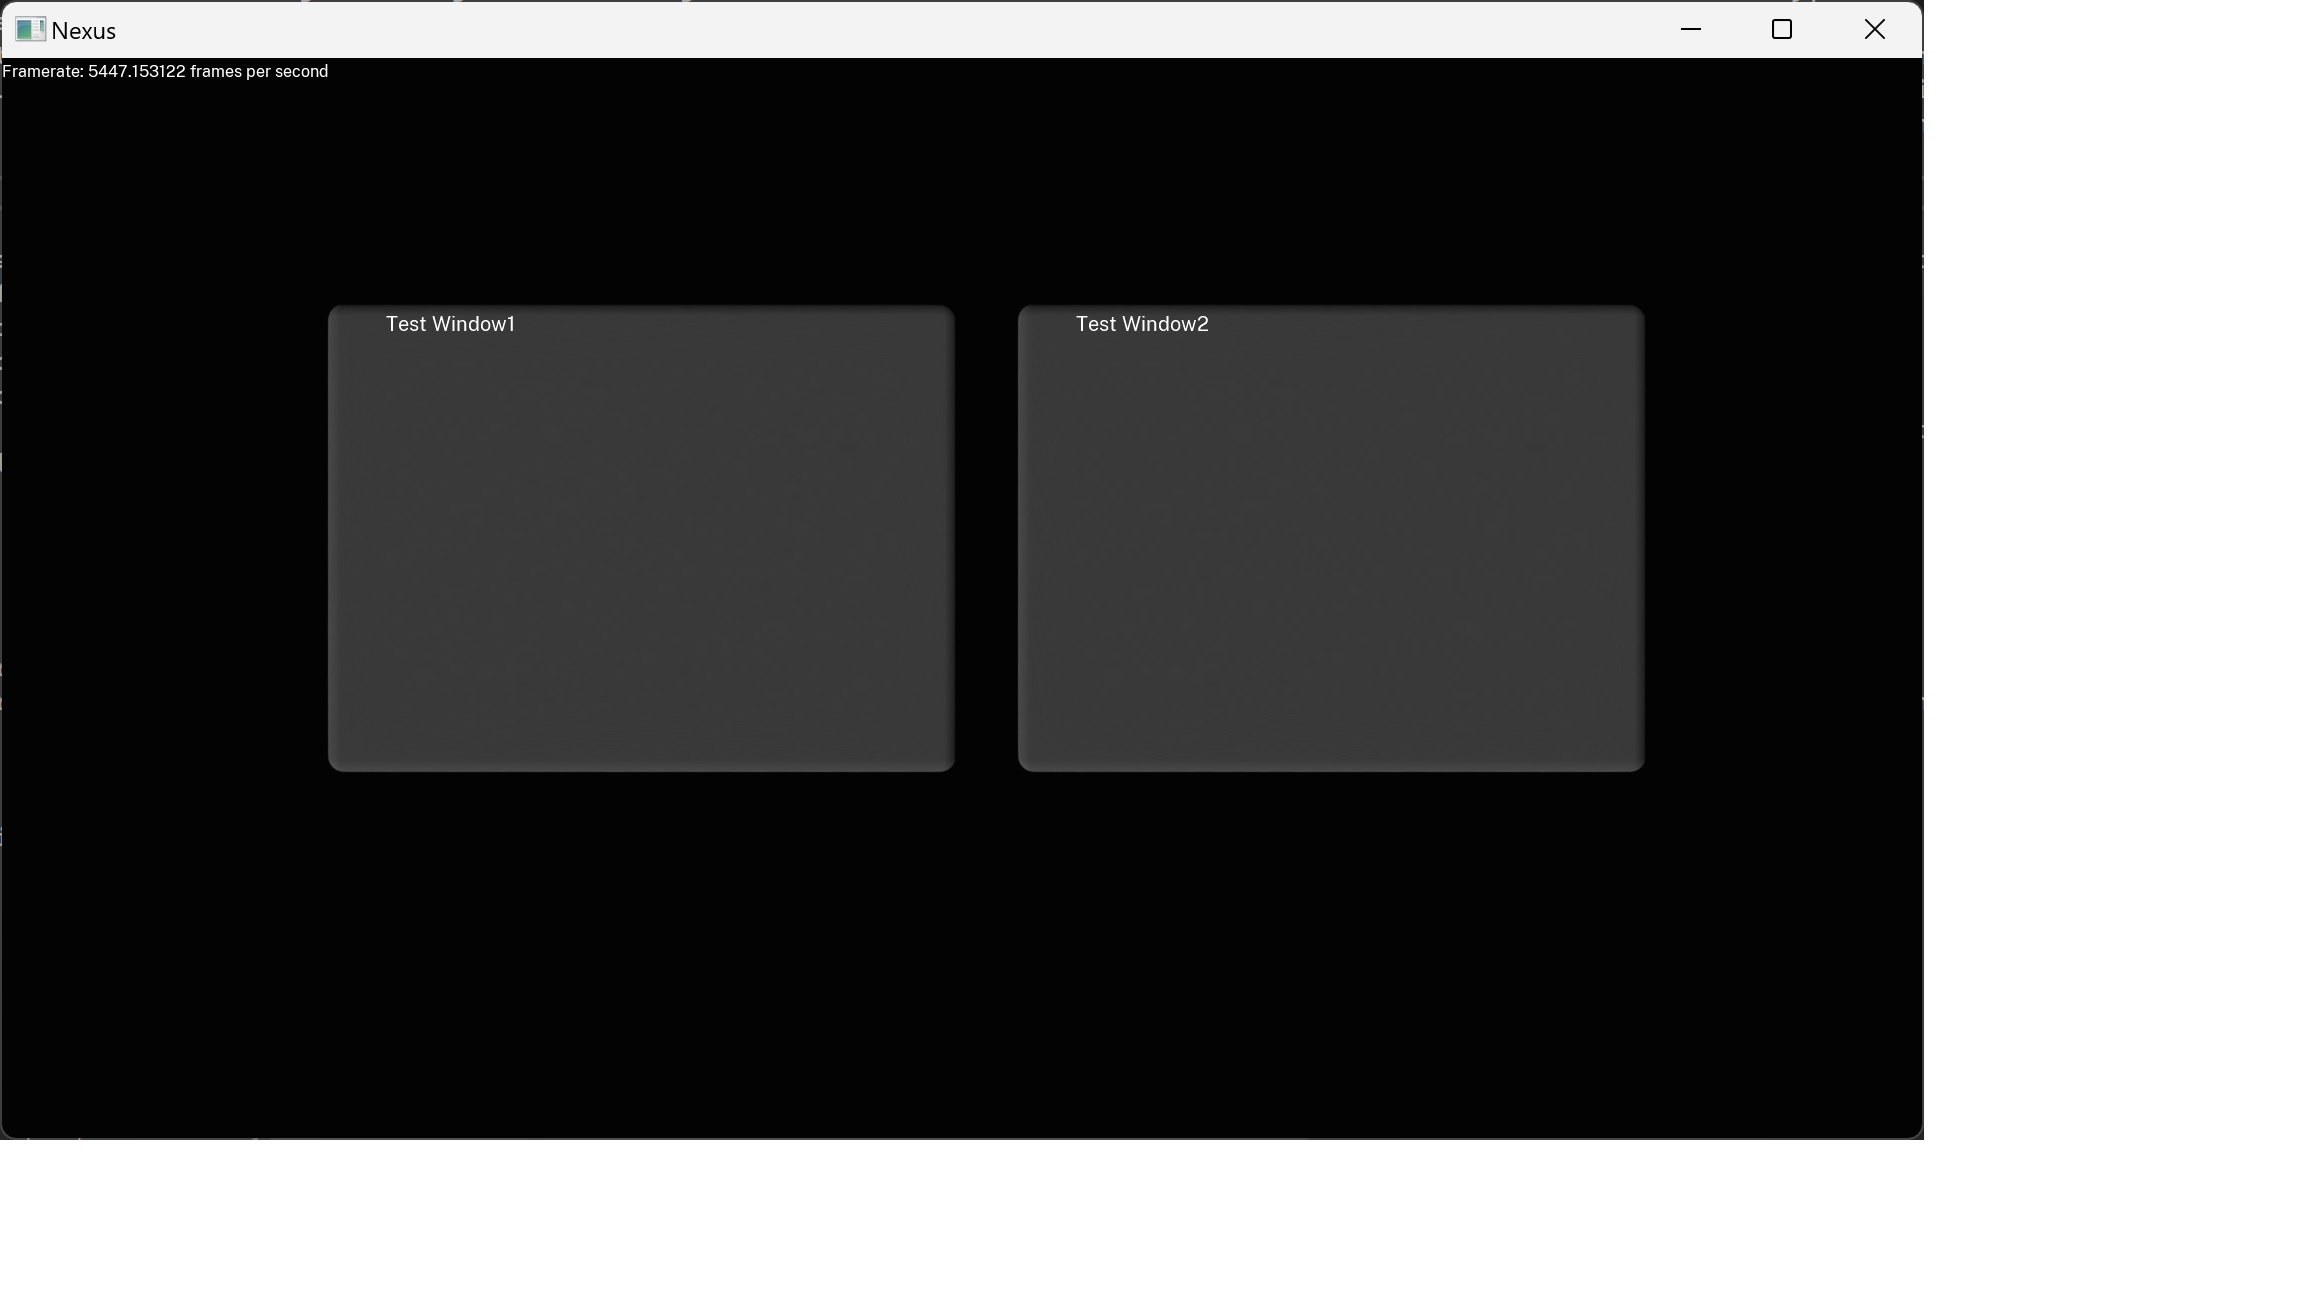
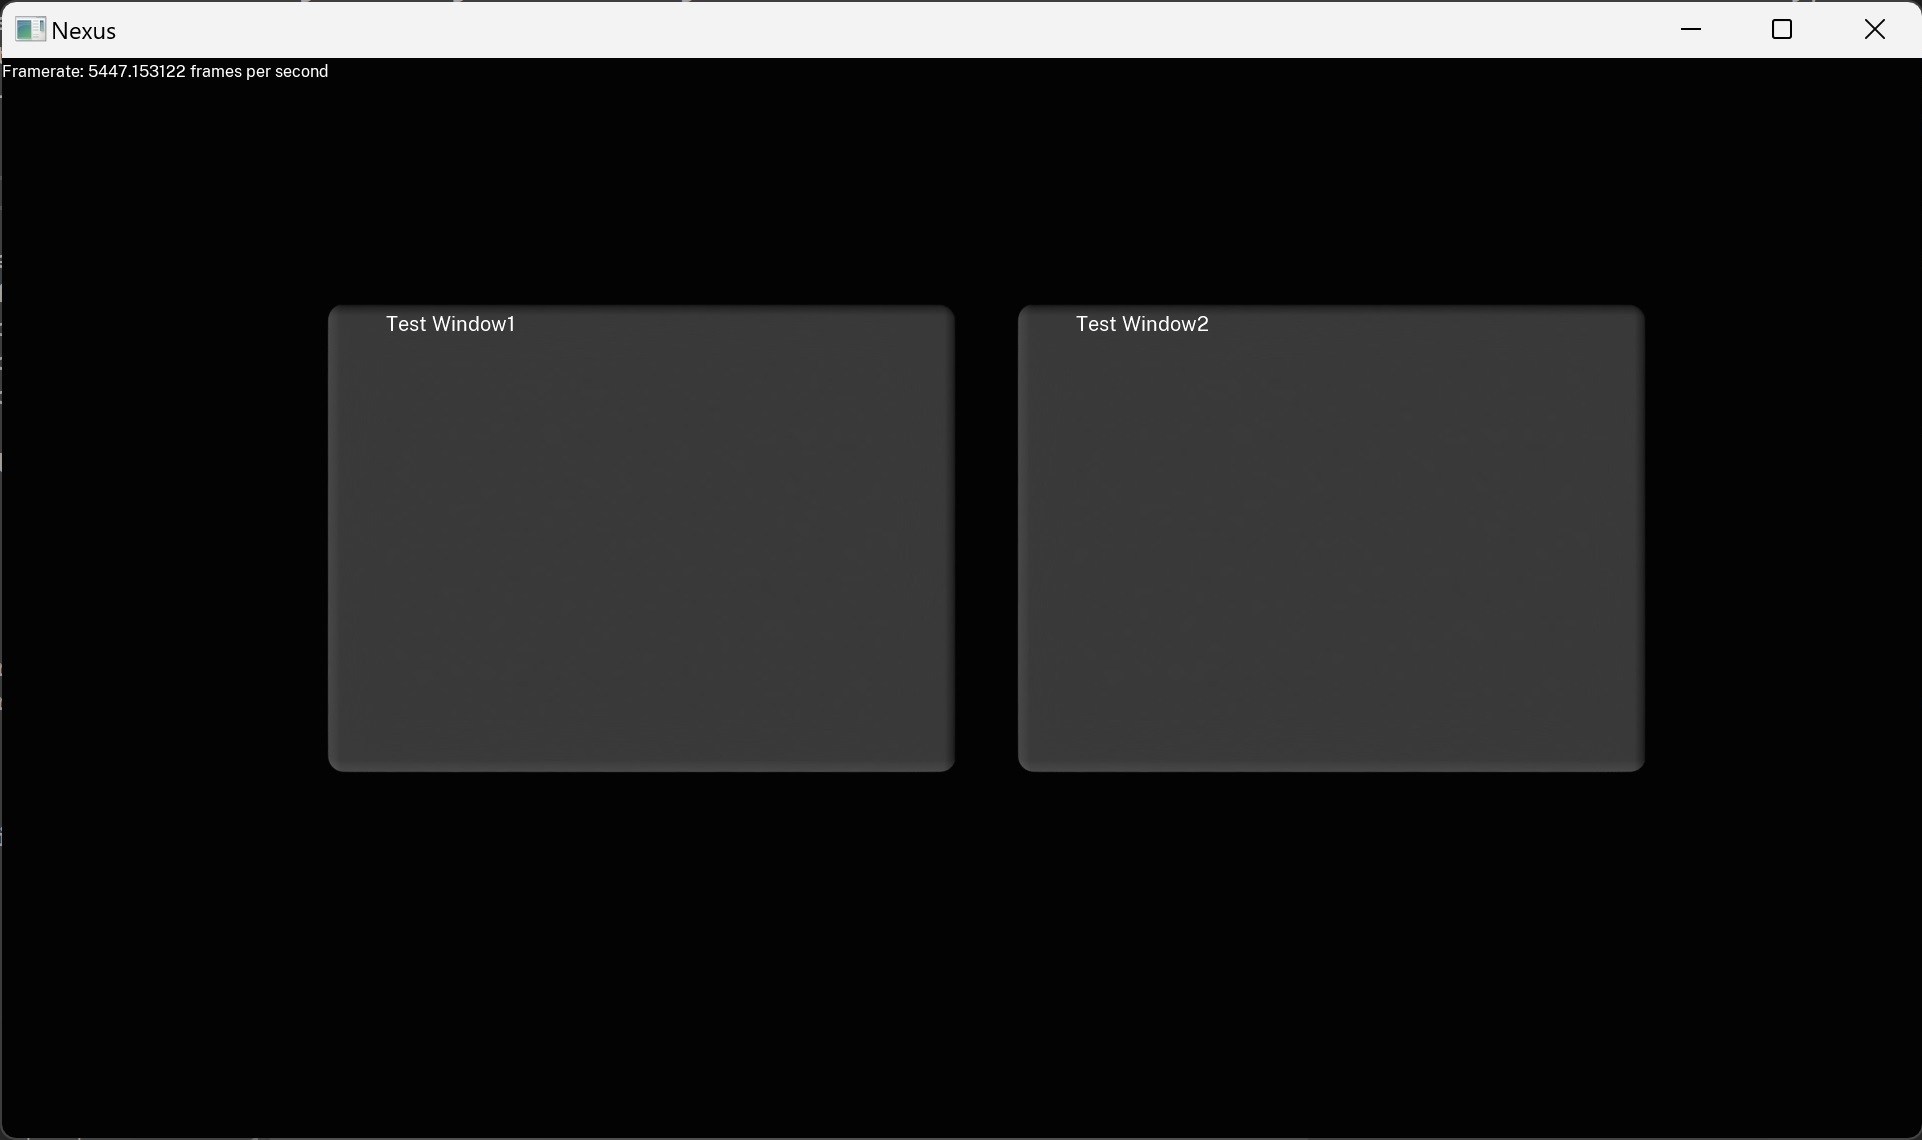
na

diff --git a/README.md b/README.md
@@ -2,15 +2,16 @@
 # My current personal project.
 ## Written in C++ for Windows 11, using OpenGL core profile for rendering.
 ### It's early days, but I'm enjoying programming again after about a nine year gap due to a health issue and it feels like this NeXus project could develop into a nice little 2D (and then later 3D too) game development framework.
-#Current features
+**Current features**
+
 - AI Neural network with genetic algorithm training. Some old code I wrote back in around 2002. This code is on the CPU only, no GPU and is singlethreaded as it was before a time when multiple cores were common. I will re-write this.
 - 2D sprite rendering on the GPU. Needs checking.
 - Font rendering with data created from truetype fonts which are installed on the OS and then saved to a pair of files containing character information and each character's image inside a texture, so no need to install any fonts on the target machine and even when not rendered to a buffer for faster re-rendering, I get almost 10,000 fps when rendering text.
 - Input from keyboard, joystick and mouse (Will be re-written in places, especially the joystick code which currently is really basic. Uses DirectX 8.
 - The beginnings of a 2D rendered GUI. Currently has a window container object which holds and deals with all other GUI objects such as buttons, text edit boxes etc.
-![Nexus project logo. Just some text "NeXus" extruded slightly and placed against a quad and the awesome Nishita sky setup within the 3D application Blender to give a natural, outdoors in sunset lighting.](https://github.com/DavidCradock/Nexus/blob/4b3d00e3a4ae0950816c73e66e67e34823163bb7/textures/github_social_image.png)
+![Screenshot of Nexus running in a window which shows text rendering and a couple of windows with their titlebar text reading Test Window1 and Test Window2.](https://github.com/DavidCradock/Nexus/blob/862d35f796801a332b7435fc011ce93aeb45db27/git_images/current_state.jpg)
 
-#TODO
+**To do**
 
 - Move each manager into their own files then move them to new filter "managers" and rename each class from ObjectManager to ManagerObjects
 - Unify each manager so they each have reference counts and maybe groups?
